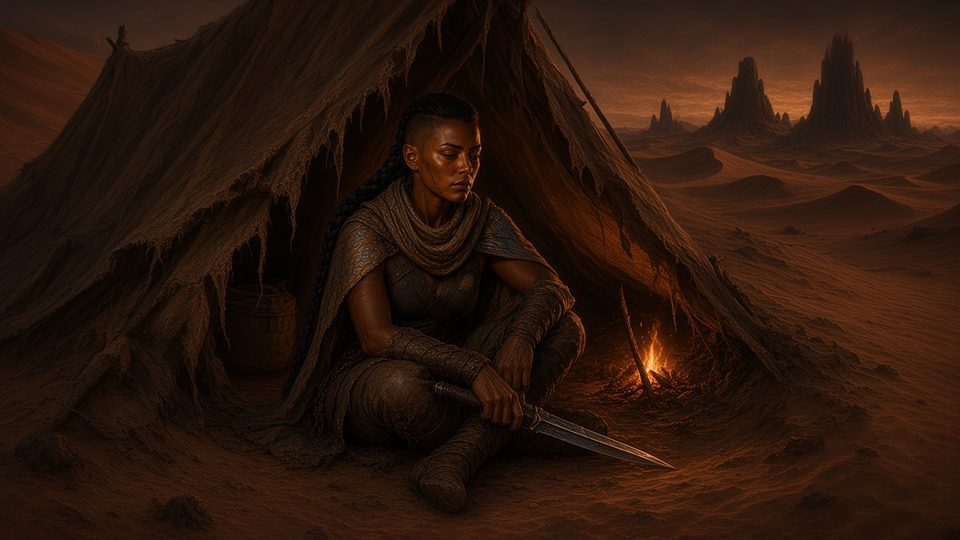
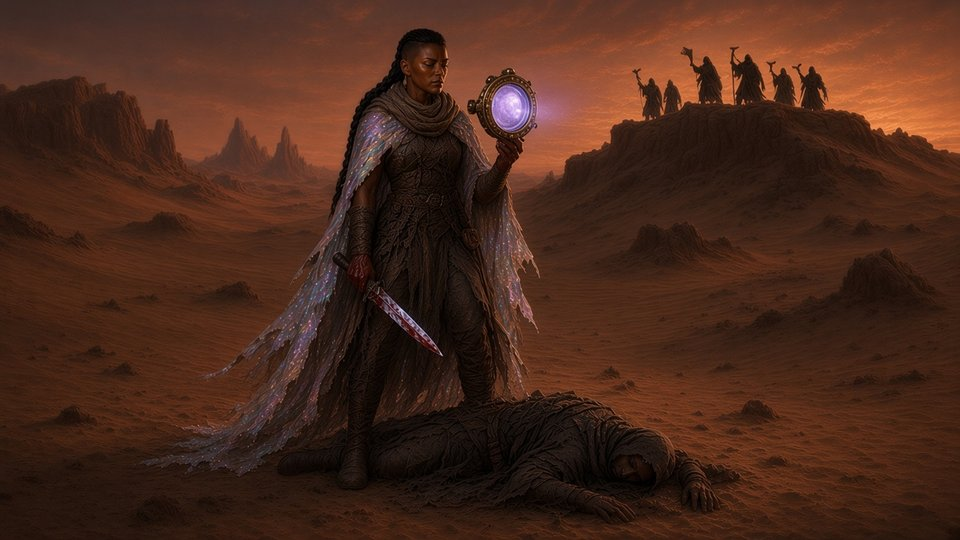
v246: open-gate Fringe text and new Sable tent art (#257)

diff --git a/scripts/v246.ts b/scripts/v246.ts
@@ -1,0 +1,30 @@
+/** v246: open-gate Crosshaven Fringe text and new Sable tent art. */
+import { existsSync, readFileSync, statSync } from 'node:fs'
+import { newGame, sceneProse } from '../src/game/engine.ts'
+import { playCoverFile, playCoverKey } from '../src/game/art.ts'
+import { getScene } from '../src/game/content/index.ts'
+import type { GameState } from '../src/game/types.ts'
+
+let fails = 0
+const ok = (c: unknown, m: string) => { if (!c) { fails++; console.log('FAIL', m) } }
+
+ok(readFileSync('src/version.ts', 'utf8').includes("'v246'") && readFileSync('public/sw.js', 'utf8').includes("'amber-shroud-v246'"), 'build v246')
+
+const CLOSED = "The noise of the perimeter drops behind you, replaced by the low hum of Crosshaven's outer filters. Lantern light cuts through the grease-haze on the shanties. You've made it off the flats, but the inner gates are locked tight."
+const OPEN = 'The noise of the perimeter drops behind you. The portcullis hangs high on its rusted drum, and the way in stands open.'
+const g = newGame('outcast')
+const at = (flags: GameState['flags']): GameState => ({ ...g, sceneId: 'ch3:crosshaven', hubId: 'barrow', flags: { ...g.flags, ch3Out: true, ...flags } } as GameState)
+ok(sceneProse(at({})) === CLOSED, 'closed Fringe body unchanged')
+ok(sceneProse(at({ crosshavenCablesCut: true })) === CLOSED, 'cables cut, gate shut: closed body')
+ok(sceneProse(at({ crosshavenCablesCut: true, crosshavenGateOpen: true })) === OPEN, 'open Fringe body')
+
+const f = 'public/covers/p1-sable-tent.jpg'
+ok(existsSync(f) && statSync(f).size > 20000, 'Sable tent art exists')
+const b = readFileSync(f)
+ok(b.readUInt16BE(0) === 0xffd8, 'Sable tent art is jpg')
+ok(readFileSync('public/sw.js', 'utf8').includes('covers/p1-sable-tent.jpg'), 'Sable art cached offline')
+const sk = playCoverKey({ ...g, sceneId: 'spine:sable', hubId: 'spine' } as GameState, getScene('spine:sable'))
+ok(sk === 'p1_sable_tent' && playCoverFile(sk) === 'p1-sable-tent.jpg', 'spine:sable shows Sable tent art')
+
+if (fails) { console.log(`v246: ${fails} failure(s)`); process.exit(1) }
+console.log('v246 ok')

diff --git a/scripts/v242.ts b/scripts/v242.ts
@@ -10,7 +10,7 @@ import type { DoorId, GameState } from '../src/game/types.ts'
 let fails = 0
 const ok = (c: unknown, m: string) => { if (!c) { fails++; console.log('FAIL', m) } }
 
-ok(readFileSync('src/version.ts', 'utf8').includes("'v245'") && readFileSync('public/sw.js', 'utf8').includes("'amber-shroud-v245'"), 'build v245')
+ok(readFileSync('src/version.ts', 'utf8').includes("'v246'") && readFileSync('public/sw.js', 'utf8').includes("'amber-shroud-v246'"), 'build v246')
 
 const C_BODY = 'The walls open onto a staging yard big enough to swallow a caravan. Transport frames lie rusted to their axles, half-buried in drifted silt, and collapsed scaffolding leans against the inner wall like broken ribs. The wind finds you here.'
 const J_BODY = 'The drainage tunnels meet here in a wide, dripping fork. Old runoff channels split off into the dark on either side, and between them a broad cut of worn stone runs on, rutted by wheels that stopped turning long ago. The old trade road.'

diff --git a/scripts/v241.ts b/scripts/v241.ts
@@ -10,7 +10,7 @@ import type { DoorId, GameState } from '../src/game/types.ts'
 let fails = 0
 const ok = (c: unknown, m: string) => { if (!c) { fails++; console.log('FAIL', m) } }
 
-ok(readFileSync('src/version.ts', 'utf8').includes("'v245'") && readFileSync('public/sw.js', 'utf8').includes("'amber-shroud-v245'"), 'build v245')
+ok(readFileSync('src/version.ts', 'utf8').includes("'v246'") && readFileSync('public/sw.js', 'utf8').includes("'amber-shroud-v246'"), 'build v246')
 
 const BODY = "A narrow vaulted passage, stone sweating in the dead air. An old Cartel post rots against the wall, a stool, a rack with no spears, and a guard who never got relieved, still sitting in what's left of his coat. A footlocker sits at his boots, padlocked and rust-sealed."
 const PRY = 'The hasp gives with a crack. Inside, rusted fittings and a twist of dry rations, wrapped like someone meant to come back.'

diff --git a/scripts/v236.ts b/scripts/v236.ts
@@ -6,7 +6,7 @@ import type { GameState } from '../src/game/types.ts'
 let fails = 0
 const ok = (c: unknown, m: string) => { if (!c) { fails++; console.log('FAIL', m) } }
 
-ok(readFileSync('src/version.ts', 'utf8').includes("'v245'") && readFileSync('public/sw.js', 'utf8').includes("'amber-shroud-v245'"), 'build v236')
+ok(readFileSync('src/version.ts', 'utf8').includes("'v246'") && readFileSync('public/sw.js', 'utf8').includes("'amber-shroud-v246'"), 'build v236')
 ok(SPINE_TOP_HEAT_GAP === 4, 'Spine Heat 8 gap is 4')
 ok(huntGap(8) === 2, 'other grounds keep their Heat 8 pace')
 ok(/heat >= 8 && spineGround\(state\)\) gap = Math\.max\(gap, SPINE_TOP_HEAT_GAP\)/.test(readFileSync('src/game/engine.ts', 'utf8')), 'Spine hunt uses the 4-scene gap')

diff --git a/scripts/v239.ts b/scripts/v239.ts
@@ -8,7 +8,7 @@ import type { GameState } from '../src/game/types.ts'
 let fails = 0
 const ok = (c: unknown, m: string) => { if (!c) { fails++; console.log('FAIL', m) } }
 
-ok(readFileSync('src/version.ts', 'utf8').includes("'v245'") && readFileSync('public/sw.js', 'utf8').includes("'amber-shroud-v245'"), 'build v239')
+ok(readFileSync('src/version.ts', 'utf8').includes("'v246'") && readFileSync('public/sw.js', 'utf8').includes("'amber-shroud-v246'"), 'build v239')
 ok(SWAP_CONFIRM('Hester Ellery', 'Sable Varn') === 'Hester Ellery will leave the party. Take Sable Varn instead?', 'approved line')
 
 const at = (door: GameState['door'], sceneId: string, flags: GameState['flags'], extra: Partial<GameState> = {}): GameState => {

diff --git a/scripts/v238.ts b/scripts/v238.ts
@@ -5,7 +5,7 @@ import { SABLE_WON_LINE } from '../src/game/encounterLines.ts'
 let fails = 0
 const ok = (c: unknown, m: string) => { if (!c) { fails++; console.log('FAIL', m) } }
 
-ok(readFileSync('src/version.ts', 'utf8').includes("'v245'") && readFileSync('public/sw.js', 'utf8').includes("'amber-shroud-v245'"), 'build v238')
+ok(readFileSync('src/version.ts', 'utf8').includes("'v246'") && readFileSync('public/sw.js', 'utf8').includes("'amber-shroud-v246'"), 'build v238')
 ok(SABLE_WON_LINE.startsWith('Sable Varn: "Nice footwork.'), 'join line names Sable Varn')
 ok(readFileSync('src/game/encounter.ts', 'utf8').includes('\\n\\n${SABLE_WON_LINE}'), 'join line sits on its own paragraph')
 

diff --git a/scripts/v240.ts b/scripts/v240.ts
@@ -8,7 +8,7 @@ import type { DoorId, GameState } from '../src/game/types.ts'
 let fails = 0
 const ok = (c: unknown, m: string) => { if (!c) { fails++; console.log('FAIL', m) } }
 
-ok(readFileSync('src/version.ts', 'utf8').includes("'v245'") && readFileSync('public/sw.js', 'utf8').includes("'amber-shroud-v245'"), 'build v245')
+ok(readFileSync('src/version.ts', 'utf8').includes("'v246'") && readFileSync('public/sw.js', 'utf8').includes("'amber-shroud-v246'"), 'build v246')
 
 const LOCKED = 'The cables are bound too thick to pull. You need a blade.'
 const CUT = 'The rotted bindings part under the blade, one braid at a time. The drum is free of rope, but silt has welded it solid.'

diff --git a/scripts/v243.ts b/scripts/v243.ts
@@ -8,7 +8,7 @@ let fails = 0
 const ok = (c: unknown, m: string) => { if (!c) { fails++; console.log('FAIL', m) } }
 void getScene // loads content first (import order)
 
-ok(readFileSync('src/version.ts', 'utf8').includes("'v245'") && readFileSync('public/sw.js', 'utf8').includes("'amber-shroud-v245'"), 'build v245')
+ok(readFileSync('src/version.ts', 'utf8').includes("'v246'") && readFileSync('public/sw.js', 'utf8').includes("'amber-shroud-v246'"), 'build v246')
 
 const RIP = 'Metal shrieks across the yard. A Cartel look-out on the upper tier stops pacing and listens.'
 const LOOT_LINES: Record<string, string> = { scrap: 'Scrap +1.', salve: 'Resin +1.', vial_drop: 'Drop +1.' }

diff --git a/scripts/v235.ts b/scripts/v235.ts
@@ -4,7 +4,7 @@ import { readFileSync } from 'node:fs'
 let fails = 0
 const ok = (c: unknown, m: string) => { if (!c) { fails++; console.log('FAIL', m) } }
 
-ok(readFileSync('src/version.ts', 'utf8').includes("'v245'") && readFileSync('public/sw.js', 'utf8').includes("'amber-shroud-v245'"), 'build v235')
+ok(readFileSync('src/version.ts', 'utf8').includes("'v246'") && readFileSync('public/sw.js', 'utf8').includes("'amber-shroud-v246'"), 'build v235')
 const app = readFileSync('src/App.tsx', 'utf8')
 ok(app.includes("IN_PLAY_KEY = 'amber-shroud.inPlay'"), 'in-play marker key')
 ok(/sessionStorage\.setItem\(IN_PLAY_KEY, door\)/.test(app), 'marker set while playing')

diff --git a/scripts/v234.ts b/scripts/v234.ts
@@ -4,7 +4,7 @@ import { readFileSync, statSync } from 'node:fs'
 let fails = 0
 const ok = (c: unknown, m: string) => { if (!c) { fails++; console.log('FAIL', m) } }
 
-ok(readFileSync('src/version.ts', 'utf8').includes("'v245'") && readFileSync('public/sw.js', 'utf8').includes("'amber-shroud-v245'"), 'build v234')
+ok(readFileSync('src/version.ts', 'utf8').includes("'v246'") && readFileSync('public/sw.js', 'utf8').includes("'amber-shroud-v246'"), 'build v234')
 ok(readFileSync('src/game/art.ts', 'utf8').includes("courtguard: 'courtguard.jpg'"), 'court guard art still mapped')
 ok(statSync('public/covers/courtguard.jpg').size > 20000, 'court guard art present')
 

diff --git a/scripts/v232.ts b/scripts/v232.ts
@@ -10,7 +10,7 @@ import type { GameState } from '../src/game/types.ts'
 let fails = 0
 const ok = (c: unknown, m: string) => { if (!c) { fails++; console.log('FAIL', m) } }
 
-ok(readFileSync('src/version.ts', 'utf8').includes("'v245'") && readFileSync('public/sw.js', 'utf8').includes("'amber-shroud-v245'"), 'build v232')
+ok(readFileSync('src/version.ts', 'utf8').includes("'v246'") && readFileSync('public/sw.js', 'utf8').includes("'amber-shroud-v246'"), 'build v232')
 
 const PICKS: { door: GameState['door']; sceneId: GameState['sceneId']; hubId: NonNullable<GameState['hubId']>; label: string; flag: string; flash: string }[] = [
   {

diff --git a/scripts/v244.ts b/scripts/v244.ts
@@ -11,7 +11,7 @@ let fails = 0
 const ok = (c: unknown, m: string) => { if (!c) { fails++; console.log('FAIL', m) } }
 void getScene
 
-ok(readFileSync('src/version.ts', 'utf8').includes("'v245'") && readFileSync('public/sw.js', 'utf8').includes("'amber-shroud-v245'"), 'build v245')
+ok(readFileSync('src/version.ts', 'utf8').includes("'v246'") && readFileSync('public/sw.js', 'utf8').includes("'amber-shroud-v246'"), 'build v246')
 
 const has = (t: unknown, line: string) => typeof t === 'string' && t.includes(line)
 const anyHeat = (t: unknown, name: string) => typeof t === 'string' && new RegExp(`${name} Heat \\+\\d`).test(t)
